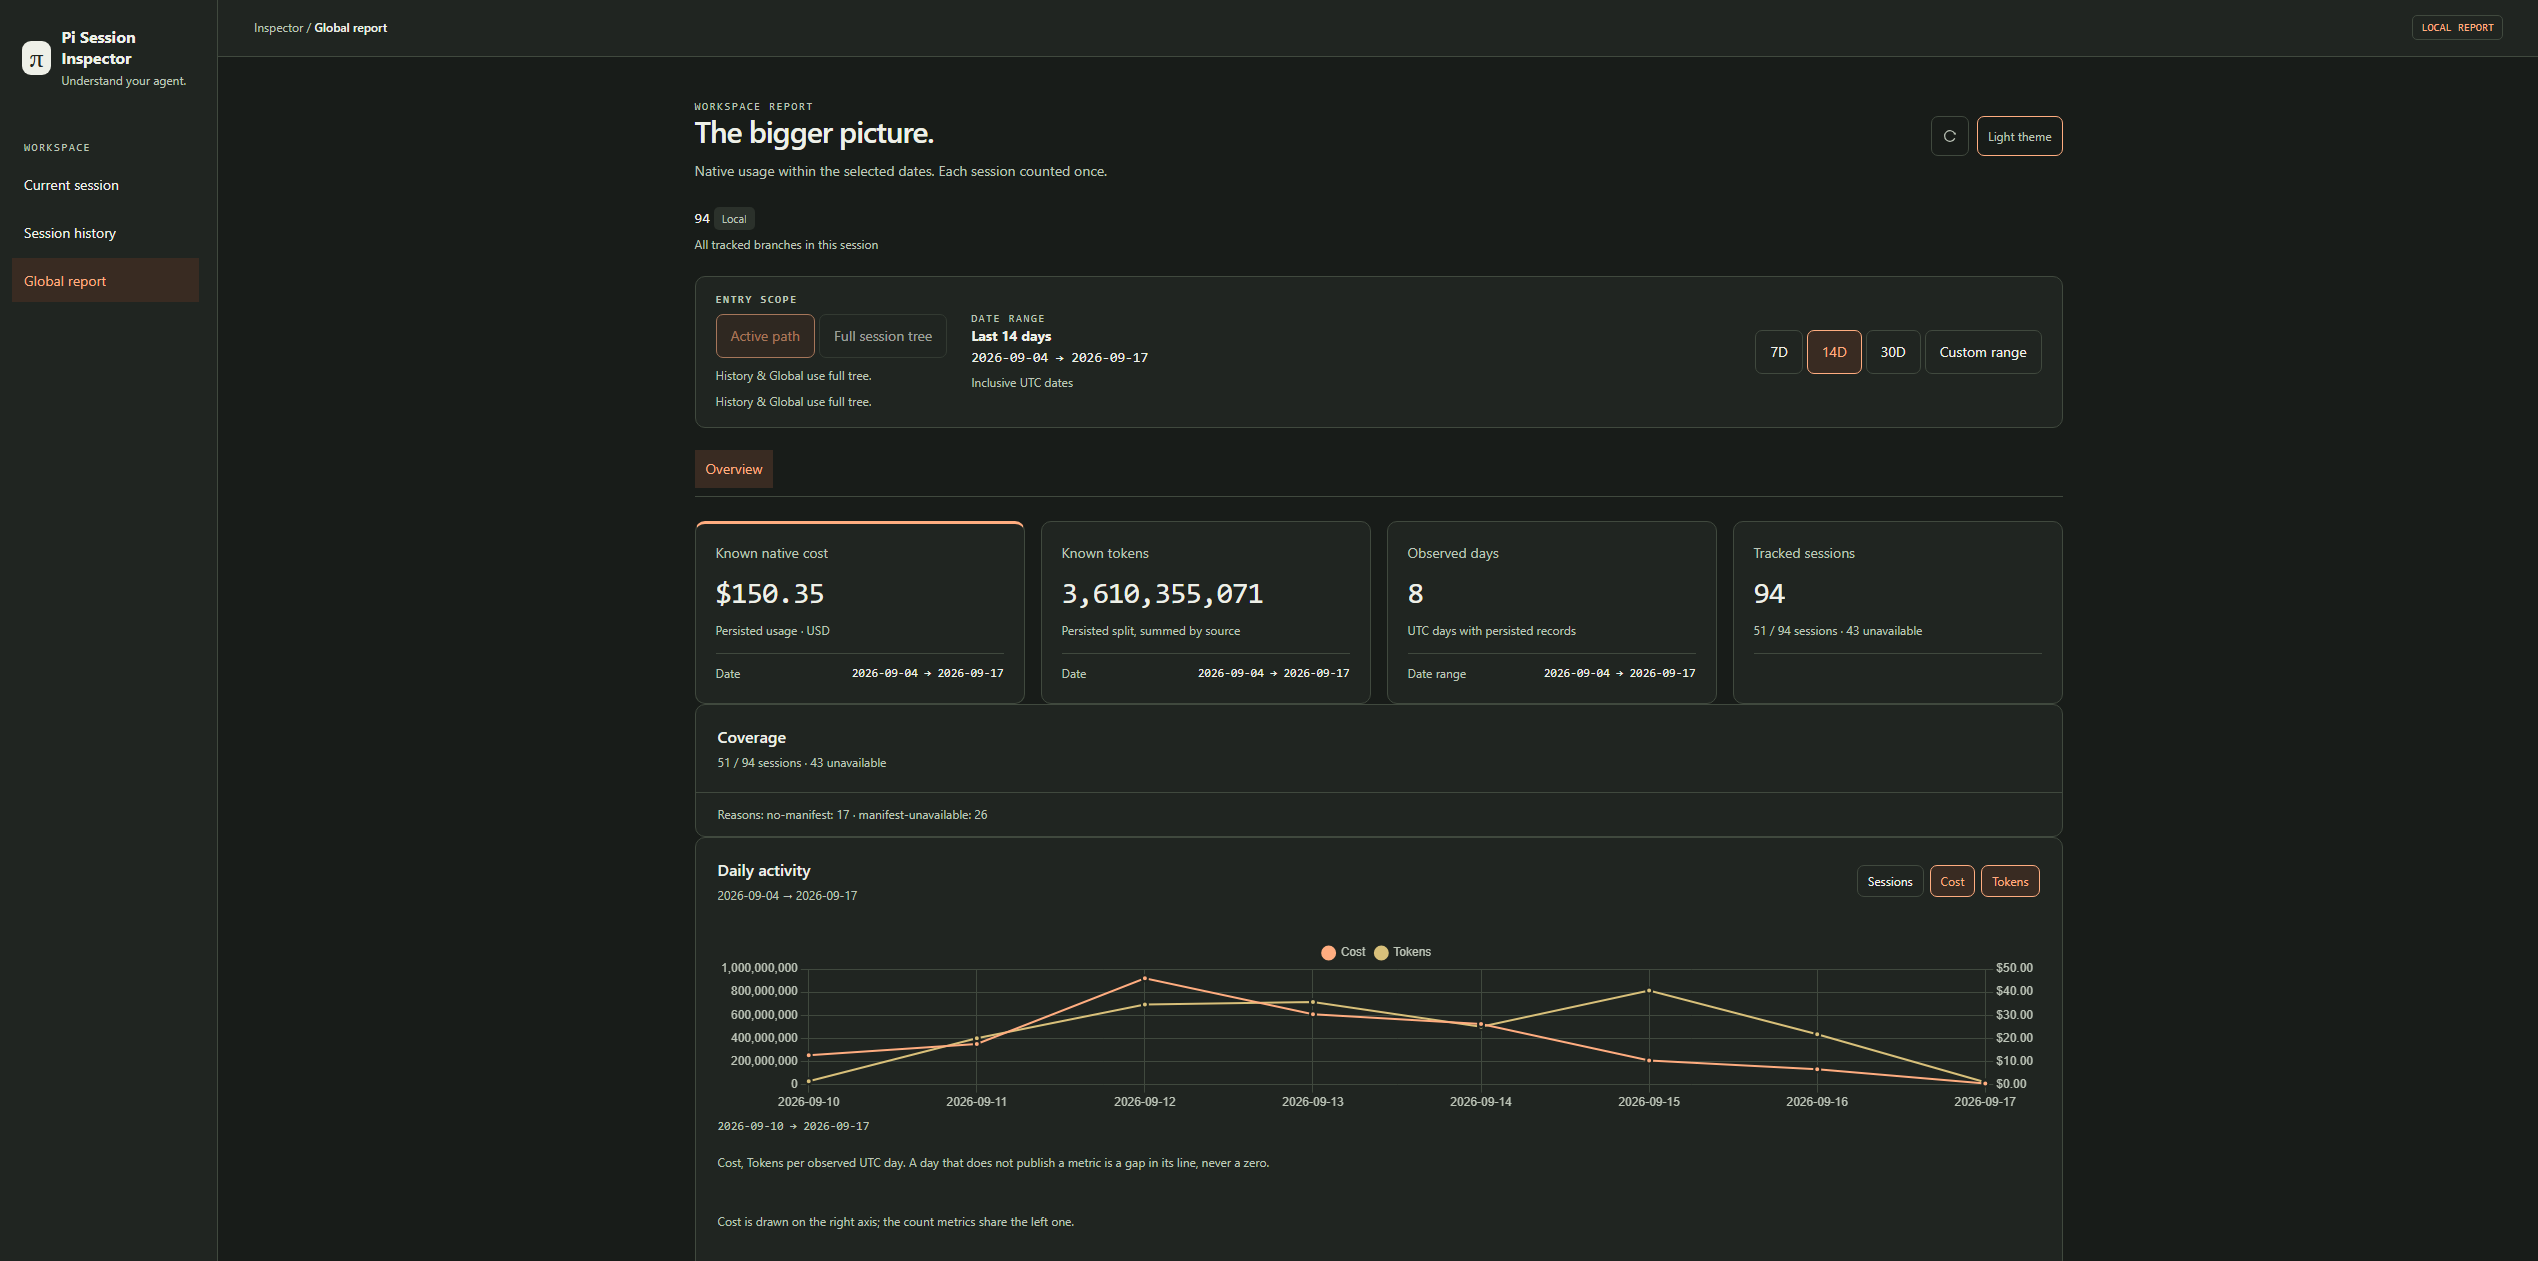
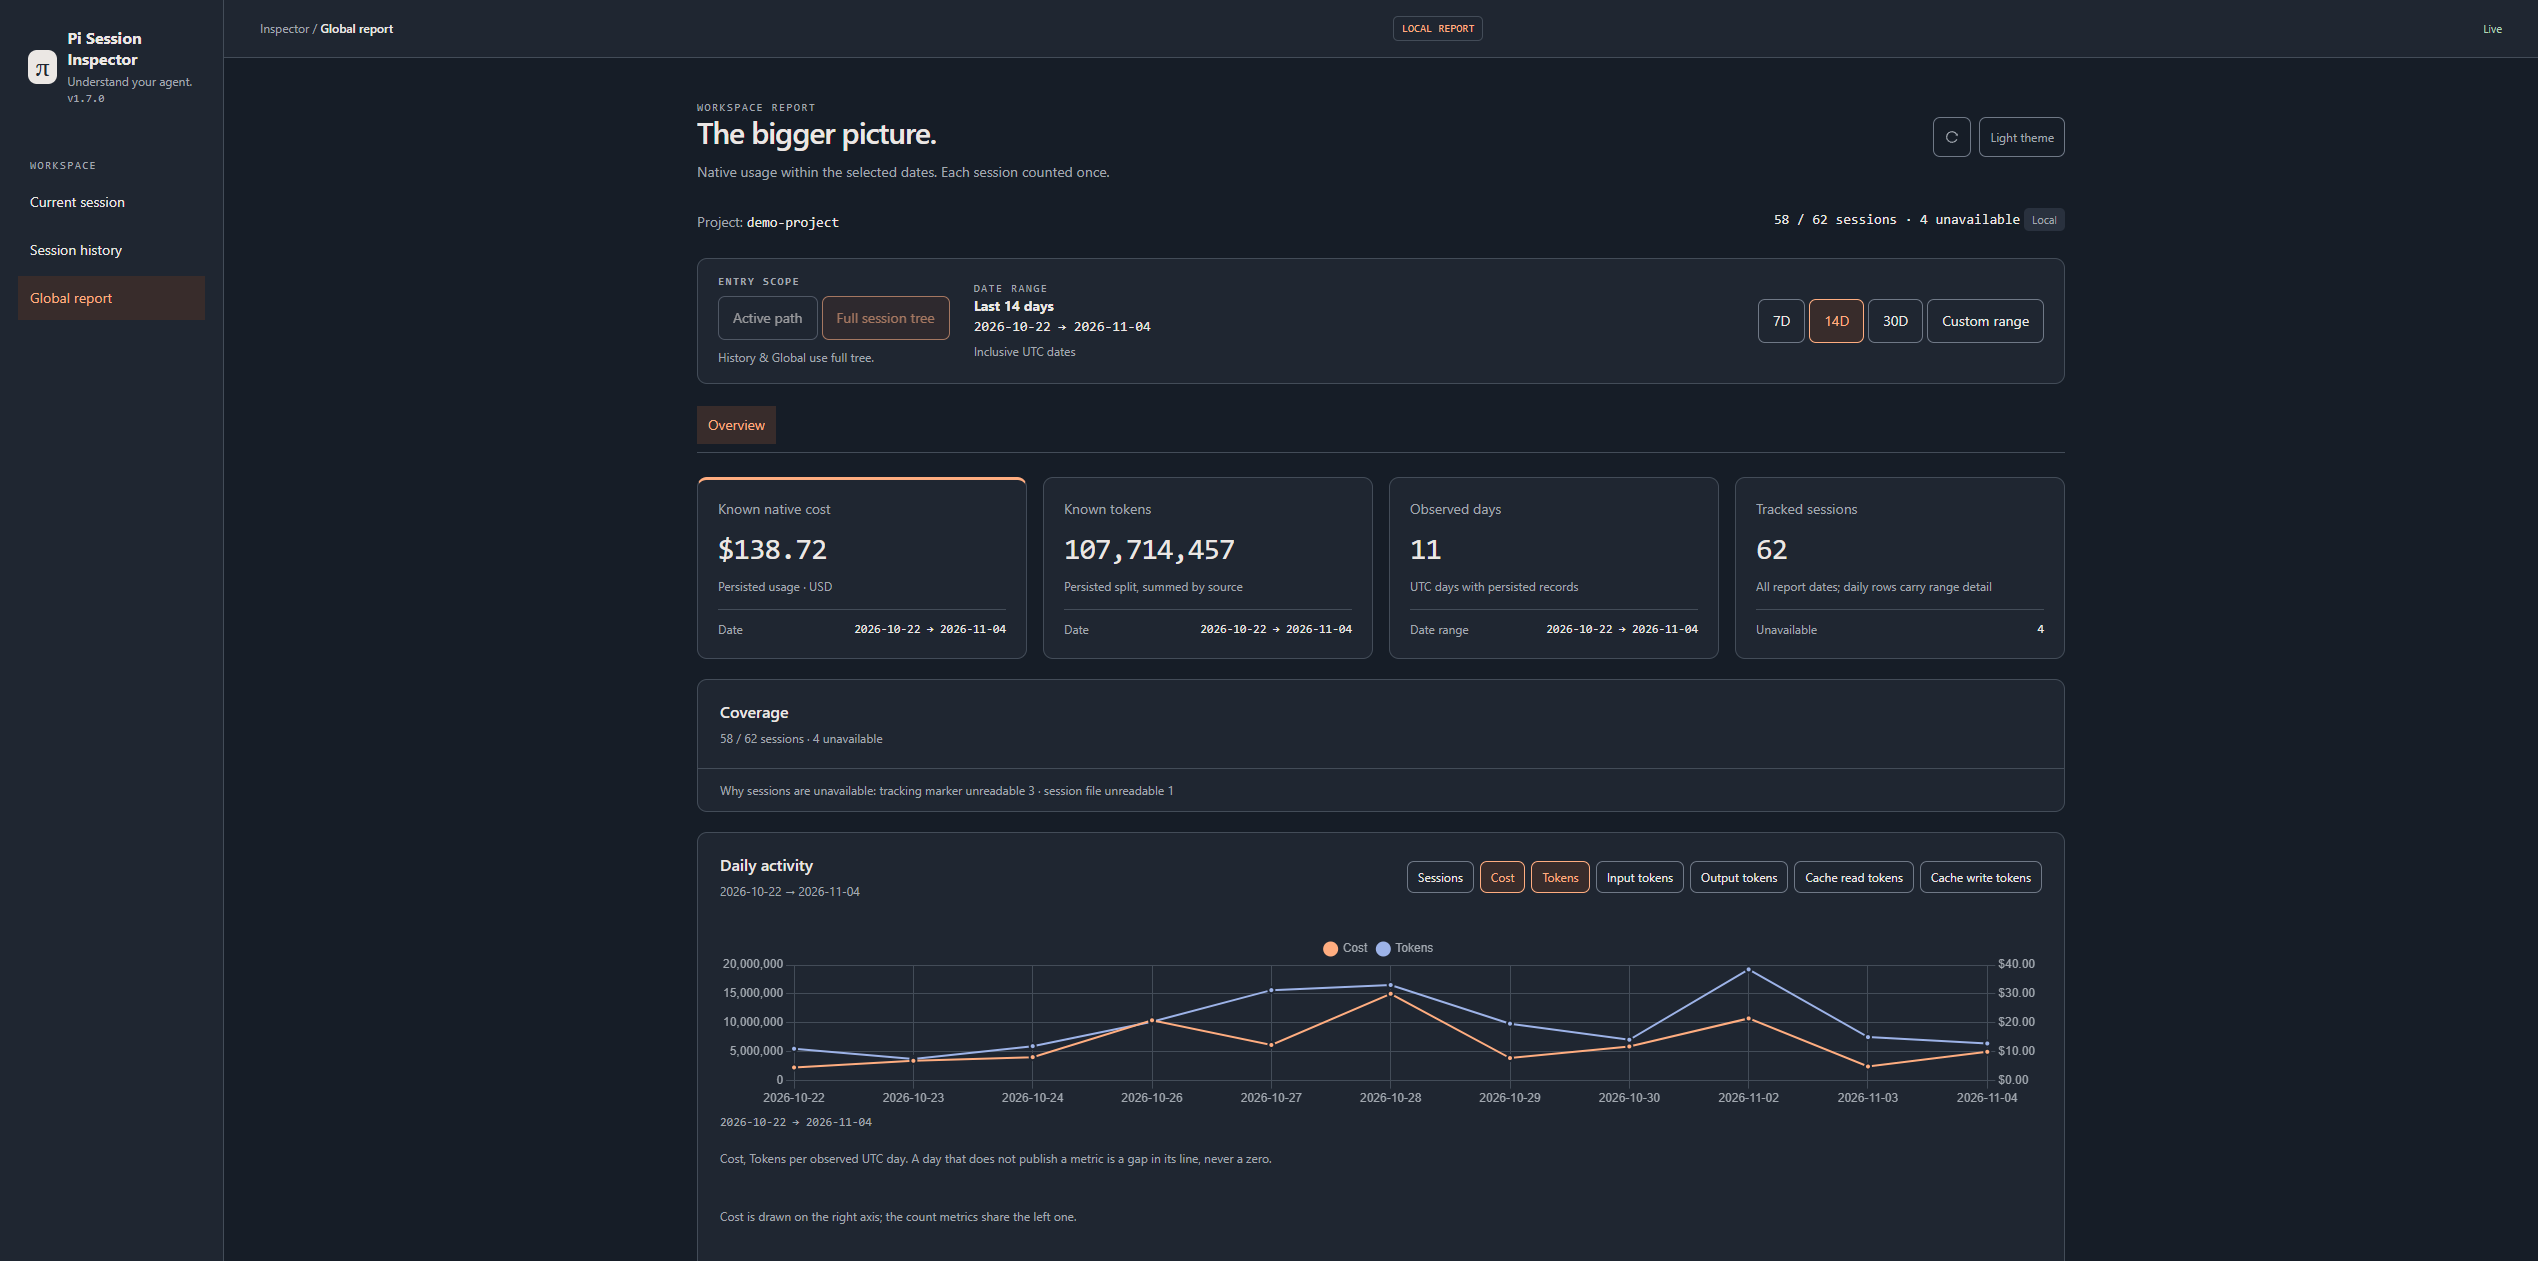
docs(readme): 1.7.0 screenshots from a synthetic global report
The README hero pair (global Overview, dark and light) is recaptured
against the 1.7.0 tree: new palette, version line, consistent cards. Per
docs/images/README.md a capture for a new release comes from sanitized
data, so the report is synthetic (demo-project, generated figures).

The README now points at the v1.7.0 release assets; the tracked gallery
preview is replaced in the same change. The two PNGs are uploaded to the
v1.7.0 release once the release workflow has created it.

diff --git a/docs/images/README.md b/docs/images/README.md
@@ -7,20 +7,20 @@ bytes:
 
 | URL | `Content-Type` | Notes |
 | --- | --- | --- |
-| `github.com/…/releases/download/v1.2.0/…png` | `application/octet-stream`, `Content-Disposition: attachment`, `X-Content-Type-Options: nosniff` | fine for `<img>` in a browser, which still sniffs; a strict consumer may refuse it |
+| `github.com/…/releases/download/v1.7.0/…png` | `application/octet-stream`, `Content-Disposition: attachment`, `X-Content-Type-Options: nosniff` | fine for `<img>` in a browser, which still sniffs; a strict consumer may refuse it |
 | `raw.githubusercontent.com/…/main/docs/images/…png` | `image/png` | what `pi.image` uses, so the [Pi package gallery](https://pi.dev/packages) can render the preview |
 
 | File | Subject | Where it lives |
 | --- | --- | --- |
-| `overview-global-dark.png` | Overview tab of the global report, dark theme | release asset on `v1.2.0` **and** tracked here (gallery preview); the README hero |
-| `overview-global-light.png` | Overview tab of the global report, light theme | release asset on `v1.2.0` only |
+| `overview-global-dark.png` | Overview tab of the global report, dark theme | release asset on `v1.7.0` **and** tracked here (gallery preview); the README hero |
+| `overview-global-light.png` | Overview tab of the global report, light theme | release asset on `v1.7.0` only |
 | `overview-current-dark.png` | Overview tab of a current session, dark theme | release asset on `v0.13.3` only; historical, no longer embedded in the README |
 
 README URLs:
 
 ```text
-https://github.com/twKrash/pi-session-inspector/releases/download/v1.2.0/overview-global-dark.png
-https://github.com/twKrash/pi-session-inspector/releases/download/v1.2.0/overview-global-light.png
+https://github.com/twKrash/pi-session-inspector/releases/download/v1.7.0/overview-global-dark.png
+https://github.com/twKrash/pi-session-inspector/releases/download/v1.7.0/overview-global-light.png
 ```
 
 Gallery URL (`pi.image` in `package.json`):
@@ -36,17 +36,18 @@ covers `src` and the root documents only.
 
 ## Provenance
 
-Every asset is a capture from a real local Pi installation, not from a fixture
-session, and that is a deliberate decision by the repository owner: the
-current-session shot shows a real session id, and the global pair shows real
-cost and token figures and real dates. Do not treat any of these files as an
-example of a sanitized capture.
-
-- `overview-current-dark.png` — captured against the `0.13.3` tree; kept on the
-  `v0.13.3` release for the record.
-- `overview-global-dark.png`, `overview-global-light.png` — captured against the
-  `1.2.x` tree, so they show the metric-selecting daily chart, and hosted on the
-  `v1.2.0` release.
+- `overview-global-dark.png`, `overview-global-light.png` (current) — captured
+  against the `1.7.0` tree from a **synthetic, sanitized** global report: the
+  project name is `demo-project` and every session count, cost, token figure
+  and date is generated, so no real session, project or figure appears. They
+  show the 1.7.0 palette and the version line, and are hosted on the `v1.7.0`
+  release.
+- The earlier pair on the `v1.2.0` release, and `overview-current-dark.png` on
+  the `v0.13.3` release, were captures from a real local Pi installation (a
+  real session id, real cost and token figures and real dates), a deliberate
+  decision by the repository owner at the time. They stay on those releases
+  for the record and are no longer embedded; do not treat them as examples of
+  a sanitized capture.
 
 The pair lives on the release it was captured against; a refreshed capture is
 uploaded to the newest release and the README URLs are repointed in the same
@@ -58,7 +59,7 @@ Uploading over the same asset name keeps the README URL unchanged, so no
 markdown edit is needed:
 
 ```sh
-gh release upload v1.2.0 path/to/overview-global-light.png --clobber
+gh release upload v1.7.0 path/to/overview-global-light.png --clobber
 ```
 
 An asset is named after the file's basename: `gh`'s `file#text` suffix sets a
@@ -69,7 +70,7 @@ return the previous bytes for a short while. Compare the stored digest instead
 of a single anonymous `GET`:
 
 ```sh
-gh api repos/twKrash/pi-session-inspector/releases/tags/v1.2.0 \
+gh api repos/twKrash/pi-session-inspector/releases/tags/v1.7.0 \
   -q '.assets[] | "\(.name) \(.digest)"'
 ```
 
@@ -77,7 +78,7 @@ Both hosts answer an anonymous `GET`, so the check below needs no credentials:
 
 ```sh
 env -u GH_TOKEN -u GITHUB_TOKEN curl -sIL -o /dev/null -w '%{http_code} %{content_type}\n' \
-  https://github.com/twKrash/pi-session-inspector/releases/download/v1.2.0/overview-global-dark.png
+  https://github.com/twKrash/pi-session-inspector/releases/download/v1.7.0/overview-global-dark.png
 ```
 
 When the gallery-preview asset changes, update the tracked copy too, or the two

diff --git a/README.md b/README.md
@@ -14,7 +14,7 @@ no external database, no analytics service, no session uploads.
 [![node: >=22.19.0](https://img.shields.io/node/v/@twkrash/pi-session-inspector)](https://www.npmjs.com/package/@twkrash/pi-session-inspector)
 [![XERJ Corpus Hub contributor](https://hub.xerj.org/contributors/twKrash/badge.svg)](https://hub.xerj.org/contributors/twKrash)
 
-<img src="https://github.com/twKrash/pi-session-inspector/releases/download/v1.2.0/overview-global-dark.png" alt="Overview tab of the global report, dark theme">
+<img src="https://github.com/twKrash/pi-session-inspector/releases/download/v1.7.0/overview-global-dark.png" alt="Overview tab of the global report, dark theme">
 
 </div>
 
@@ -77,7 +77,7 @@ equivalent, and `/session-inspector help` prints the grammar in the TUI.
 
 The same global report in the light theme.
 
-<img src="https://github.com/twKrash/pi-session-inspector/releases/download/v1.2.0/overview-global-light.png" alt="Overview tab of the global report, light theme">
+<img src="https://github.com/twKrash/pi-session-inspector/releases/download/v1.7.0/overview-global-light.png" alt="Overview tab of the global report, light theme">
 
 The images are GitHub release assets rather than repository files: no binary
 bytes enter git, and the absolute URLs render on GitHub and npm alike. They are
